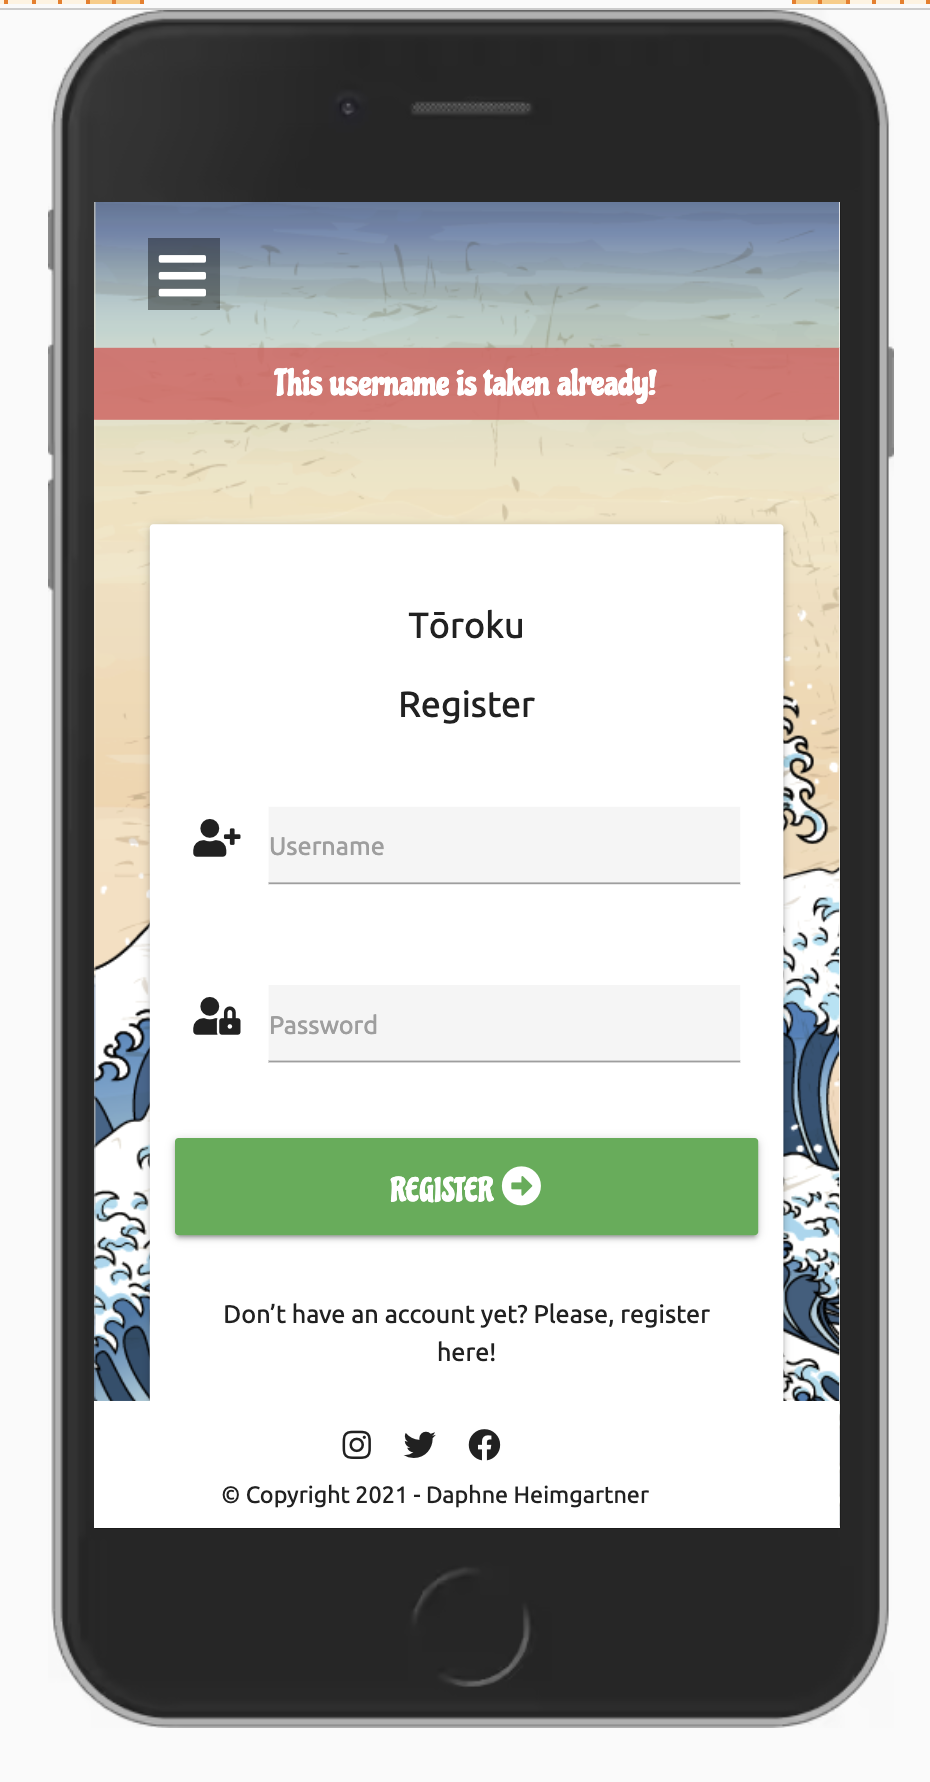
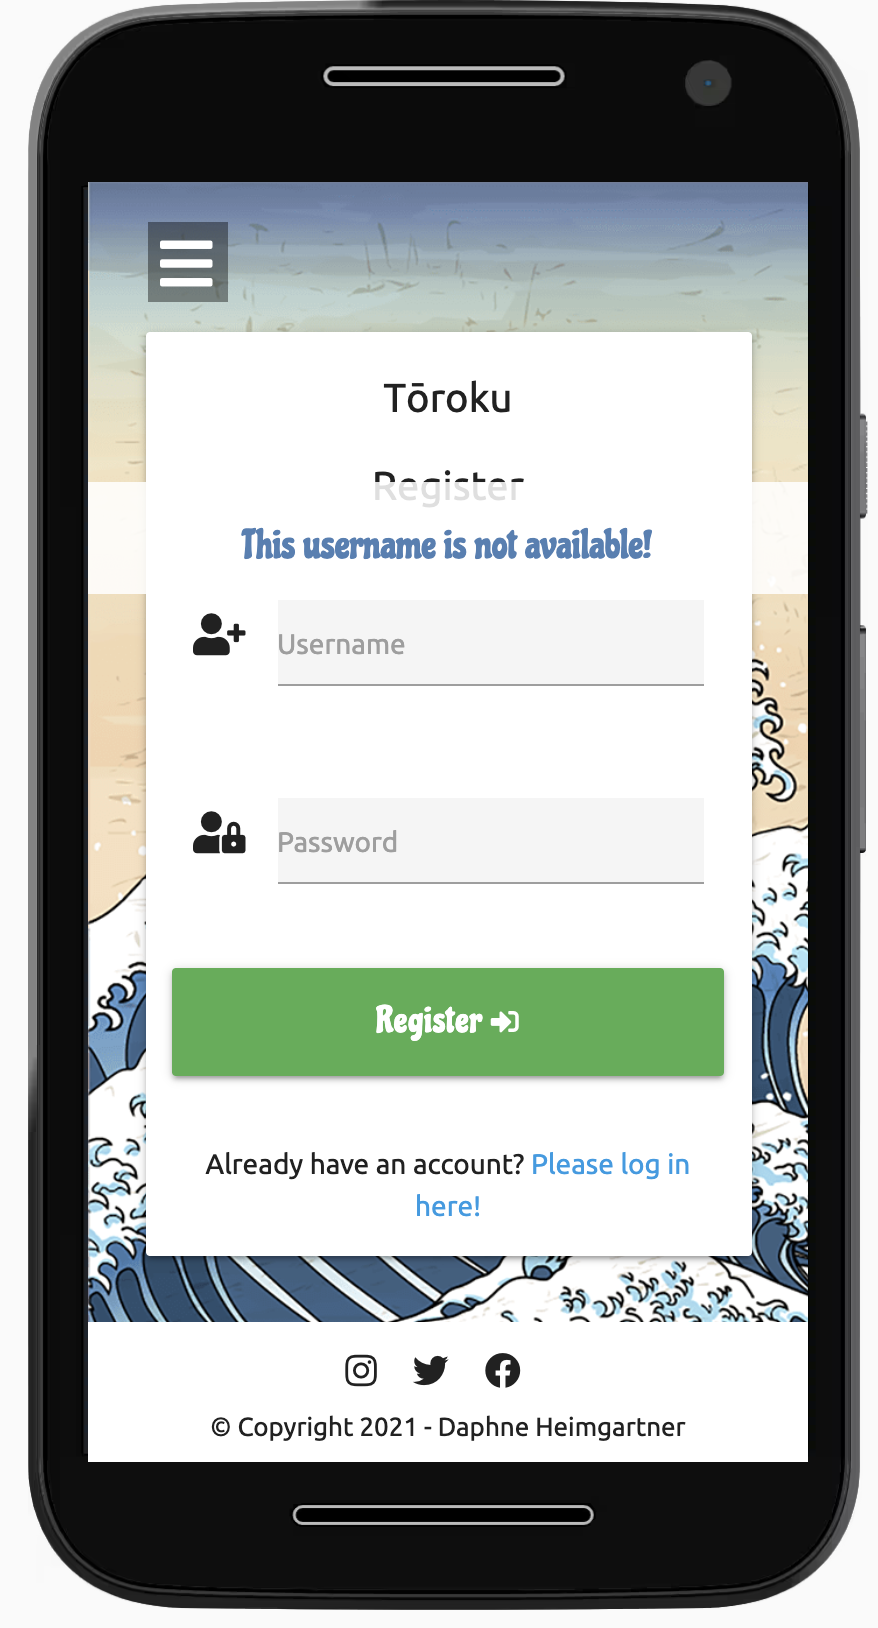
Updated Readme demo, table of contents, UX, features and technologies section

diff --git a/README.md b/README.md
@@ -5,7 +5,7 @@ MAMAMAKI
 
 <img src="static/readme images/logo.png" alt="Logo" width="55%" height="55%">
 
-MAMAMAKI is a site for Japanese home cooking recipes and when you are loged in, you can add and edit your own recipes.
+MAMAMAKI is a site for Japanese home cooking recipes and when you are logged in, you can add, edit and delete your own recipes.
 The focus with this site is to combine knowledge about Japanese home cooking with what was learned this far about HTML, CSS, JavaScript and Python. The site’s goal is to share recipes.
 
 Demo
@@ -13,8 +13,8 @@ Demo
 
 By clicking this [link](https://mamamaki.herokuapp.com/) a live demo version will be visible.
 
-<!-- <img src="assets/images/readme_images/mockup1.png" alt="Mockup 1" width="65%" height="65%">
-<img src="assets/images/readme_images/mockup2.png" alt="Mockup 2" width="65%" height="65%"> -->
+<img src="static/readme images/mockup_1.png" alt="Mockup 1" width="65%" height="65%">
+<img src="static/readme images/mockup_2.png" alt="Mockup 2" width="65%" height="65%">
 
 <div align="right"><a href="#top">🔝</a></div>
 
@@ -35,9 +35,10 @@ Table of Contents
 </details>
 
 **<details><summary>Technologies</summary>**
-* [**_Code languages, libraries and frameworks_**](#code-languages-libraries-and-frameworks)
+* [**_Languages_**](#languages)
+* [**_Libraries and frameworks_**](#libraries-and-frameworks)
 * [**_Wireframes_**](#wireframes)
-* [**_Others_**](#others)
+* [**_Tools_**](#tools)
 </details>
 
 **<details><summary>Testing and Bugs</summary>**
@@ -72,9 +73,9 @@ This is meant to be a B2C site which targets visitors who are interested in Japa
 
 ##### Visitor Goals
 
-- To be able to see different recipes and search for them.
+- To be able to see different recipes and search for them using keywords.
 - To create an account and log in on that account.
-- To create, read, update and delete own recipes.
+- To create, read, update and delete my own recipes.
 
 ##### Site Owners Goals
 
@@ -83,12 +84,12 @@ This is meant to be a B2C site which targets visitors who are interested in Japa
 
 ### Strategy
 
-The design goal is to make a clear, accessible, structured site so that visitors can easily see the recipes, navigate on the site and add + edit their own recipes.
+The design goal is to make a clear, accessible, structured site so that visitors can easily see the recipes, navigate on the site and add, edit and delete their own recipes.
 
 ### Scope
 
-The site shows a home page with a small introduction. Second is the about page which tells a bit about the creator of the site and why the site was created. Furthermore, the site contains a recipe page on which you can you choose to go to a specific recipe. It also contains a register page, a log in page, a profile page and a add recipe page.
-The profile page and add recipe page will only be visible when you are logged in.
+The site shows a homepage with a small introduction. Second is the about page which tells a bit about the creator of the site and why the site was created. Furthermore, the site contains a recipes page on which you can you choose to go to a specific recipe. It also contains a register page, a log in page, a personal recipe page and a add recipe page.
+The personal recipe page and add recipe page will only be visible when you are logged in.
 
 ### Structure
 
@@ -109,7 +110,9 @@ Mobile wireframes<br>
 
 Raw data diagram<br>
 
-<img src="static/readme images/raw_data_diagram.png" alt="Data Overview" width="65%" height="65%">
+<img src="static/readme images/raw_data_diagram.png" alt="Data Overview" width="65%" height="65%"><br>
+Eventually some items were added to the diagram and it has been simplified.
+<img src="static/readme images/updated_data_diagram.png" alt="Data Overview" width="65%" height="65%">
 
 **Surface**
 
@@ -138,26 +141,33 @@ What was changed is:
 On the register page the headers were outside the white block, but this gave a problem with the flash messages. They pushed the content down, the headers text becaume hard. <br>
 <img src="static/readme images/headers_with_flash_message_1.png" alt="Headers with Flash message before" width="45%" height="45%"> <br>
 
-So it was decided to put the headers in the white register block to solve this. <br>
+So it was decided to put the headers in the white register block to solve this. And in the end it was decided to put the flash message in a white bar with blue text, to put it more downwards and to give it a fade out. This is better for the end user because the text disappears without the page having to be reloaded.<br>
 
 <img src="static/readme images/headers_with_flash_message_2.png" alt="Headers with Flash message after" width="45%" height="45%"> <br>
 
 2. <br>
-Originally the texts were aligned left, but in the actual design this didn't look right.<br>
+Originally the texts were aligned left, but in the actual design this didn't look right. Also for the footer it looked better when everything was centered.<br>
 <img src="static/readme images/text_align_left.png" alt="Text align left" width="45%" height="45%"> <br>
 So centering the text seemed better.<br>
 <img src="static/readme images/text_align_center.png" alt="Text align center" width="45%" height="45%"> <br>
 
-<!-- 1. The color for the red headers and buttons were changed from #e73b3b to #e72f4c and #e02a51 because during testing #e73b3b did not give a good enough contrast.
-2. The icon for the website was added, because it would be logical to refer to the main website of the company.
-3. On the sample kit request form and the quotation request form a checkbox was added to reduce spam by checking if the user is a robot.
-4. The layout for desktop view on the creator.html for the card selectors was changed a bit to make it look more appealing on smaller screens and to make it more logical to follow the steps.
-5. The Select Size and Select Printing Method options were combined to give it a UX friendly experience.
-6. The buttons for adding a text field, downloading the preview file and resetting the made choices are grouped together to present a better and UX friendly experience.
-7. The button to upload an own file was separated from the other selectors and made pulsing to give it better attention.
-8. The legend which explains all the lines (bleed etc.) of the templates has been put above the template to give it a UX friendly experience.
-9. On the bottom of the page above the input fields for name and email address a small explanation was added to create a more UX friendly experience.
-10. After testing the user-friendliness was experienced as not good enough, because only the logo could be used to return to the homepage. That is why on the page for requesting the sample kit and for designing the business card, 2 buttons have been added at the top to switch between the other pages. Cancel buttons have also been added to the bottom of the forms and the request quotation button was changed to send. This increases user-friendliness. -->
+3. <br>
+Two call to action buttons have been added to the homepage to make it more user-friendly and to register or log in right away. A contact form has also been added, again to increase user-friendliness.
+
+4. <br>
+Scroll to the top buttons have been added on all pages, because you don't have to scroll all the way up again, this improves user-friendliness. They will appear automatically as soon as you have to scroll down.
+
+5. <br>
+On the about page the words "register page" have been linked to go directly to that page.
+
+6. <br>
+On the single recipe page, the ingredients list and the instruction list have been made collapsible to make it easier during cooking, when you have the ingredients ready, just close it and keep only the instruction list open. Because not all the recipes show the calories, it has been decided to omit that and instead put down which user has added the recipe.
+
+7. <br>
+Some additional text has been added to the personal recipe page to indicate what it displays.
+
+8. <br>
+Some extra fields have been added to the add recipe page, namely "remarks", "additional notes" and a switch for if it's a vegetarian recipe.
 
 ### Fonts and icons
 
@@ -177,7 +187,7 @@ The site contains the following features:
 - Have clear and easy to use page navigation.
 - Register an account.
 - Log in to that account and log out of it.
-- Add and edit one’s own recipes.
+- Add, edit and delete your own recipes.
 
 ### Features for the future 
 
@@ -193,32 +203,45 @@ The following items can be added:
 Technologies
 ======
 
-### Code languages, libraries and frameworks
+### Languages
 
-<!-- - HTML5
-- CSS3
-- Materialize 1.0.0
+- HTML
+- CSS
+- Python
 - JavaScript
-- Fabric
-- EmailJS -->
+
+### Libraries and Frameworks
+
+- Materialize 1.0.0
+- JQuery
+- PyMongo
+- Flask
+- Jinja
+- Werkzeug
+
 
 ### Wireframes
 
 - Adobe XD
 
-### Others
+### Tools
 
 - Adobe Photoshop: to resize the images.
 - Adobe Illustrator: to create the logo.
 - VSCode: to write the code in.
+- EmailJS: for receiving the content of the contact form
+- MongoDB Atlas: as a database for this project
+- Heroku: as a host for the deployed site
+- GitHub: for the repository
+- Cloudinary: to store most of the images for this project
 
 <div align="right"><a href="#top">🔝</a></div>
 
 Testing and Bugs
 ======
 
-<!-- The tests have been done on multiple devices and browsers, in the end everything works as intended. Because this topic contained more content than expected, a separate page was created.
-For more details about testing and bugs please view this [file](testing/README.md). -->
+The tests have been done on multiple devices and browsers, in the end everything works as intended. Because this topic contained more content than expected, a separate page was created.
+For more details about testing and bugs please view this [file](testing/README.md).
 
 <div align="right"><a href="#top">🔝</a></div>
 
@@ -232,7 +255,7 @@ Deployment
 1. Go to [GitHub](https://github.com/)
 2. Find Daph1986's [page](https://github.com/Daph1986)
 3. Select repositories.
-4. Select the Postfly-business-card-creator repository.
+4. Select the mamamaki repository.
 5. Click on the link on the right side or on the link under "Demo".
 By clicking that link the live demo version will be visible. <br>
 
